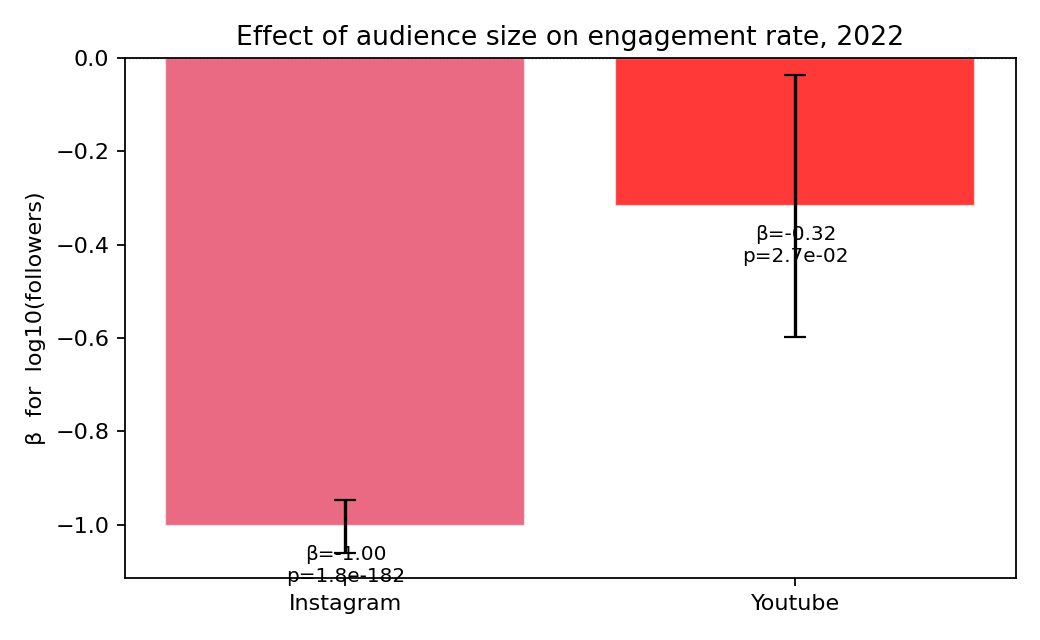
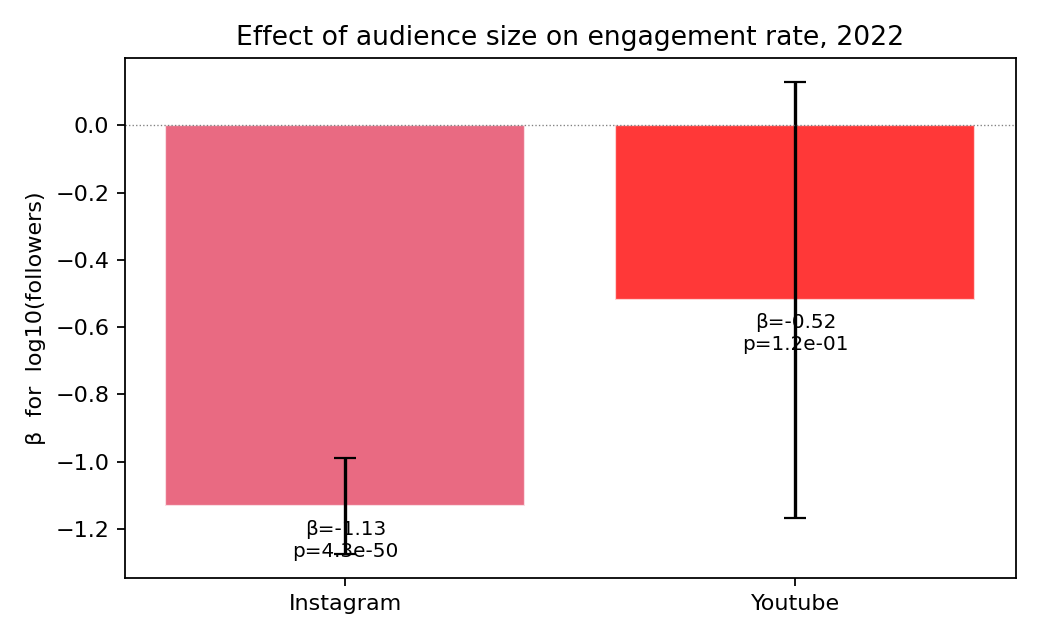
rq1 ml model

diff --git a/8 - ML prediction/scripts/8_rq1_engagement_prediction.py b/8 - ML prediction/scripts/8_rq1_engagement_prediction.py
@@ -1,0 +1,268 @@
+"""
+Step 8: RQ1 (Predictive extension)
+
+Question: Given an account's platform, content category, audience country,
+and follower count, can we predict its engagement rate? How does the
+prediction accuracy compare to a traditional OLS baseline?
+
+Target:   log10(er_pct)  — matches RQ1's outcome variable for direct comparison
+Features: log10(followers), platform, category_unified, country
+Scope:    2022 only, Instagram + YouTube (TikTok 2022 lacks category & country)
+Split:    80/20 by unique account (random_state=42)
+Models:   OLS (baseline) · Random Forest · XGBoost
+Metrics:  R² · RMSE · MAE  (all on log scale)
+"""
+
+from pathlib import Path
+import numpy as np
+import pandas as pd
+import matplotlib.pyplot as plt
+from sklearn.linear_model import LinearRegression
+from sklearn.ensemble import RandomForestRegressor
+from sklearn.model_selection import train_test_split
+from sklearn.metrics import r2_score, mean_absolute_error, mean_squared_error
+from sklearn.preprocessing import OneHotEncoder
+from sklearn.inspection import permutation_importance
+import xgboost as xgb
+
+ROOT = Path(__file__).resolve().parents[2]
+SRC  = ROOT / "4 - ER unified" / "finalData_with_er.csv"
+OUT  = ROOT / "8 - ML prediction"
+PLOT = OUT / "plots"
+TBL  = OUT / "tables"
+PLOT.mkdir(exist_ok=True, parents=True)
+TBL.mkdir(exist_ok=True, parents=True)
+
+PLATFORM_COLOR = {"instagram": "#E4405F", "youtube": "#FF0000"}
+MODEL_COLOR    = {"OLS (baseline)": "#37474F", "Random Forest": "#2E7D32", "XGBoost": "#C62828"}
+EXCLUDE_CATEGORIES = {"Other", "UNMAPPED"}
+TOP_K_COUNTRIES = 15
+RANDOM_STATE = 42
+
+summary = []
+def log(msg=""):
+    print(msg); summary.append(str(msg))
+
+# ---------- PNG table helper ------------------------------------------------
+def save_table_png(df, path, title=None, fmt=None):
+    d = df.copy()
+    if fmt is not None:
+        for col, f in fmt.items():
+            if col in d.columns:
+                d[col] = d[col].map(lambda v: f(v) if pd.notna(v) else "")
+    else:
+        for col in d.select_dtypes("number").columns:
+            d[col] = d[col].map(lambda v: f"{v:.3f}" if pd.notna(v) else "")
+    if not isinstance(d.index, pd.RangeIndex):
+        d = d.reset_index()
+    n_rows, n_cols = d.shape
+    fig_w = max(8, 1.3 * n_cols); fig_h = 0.6 + 0.38 * (n_rows + 1) + (0.4 if title else 0)
+    fig, ax = plt.subplots(figsize=(fig_w, fig_h)); ax.axis("off")
+    if title:
+        ax.set_title(title, loc="left", fontsize=11, fontweight="bold", pad=10)
+    tbl = ax.table(cellText=d.astype(str).values, colLabels=d.columns.astype(str).tolist(),
+                   loc="center", cellLoc="center", colLoc="center")
+    tbl.auto_set_font_size(False); tbl.set_fontsize(9); tbl.scale(1, 1.25)
+    for j in range(n_cols):
+        c = tbl[0, j]; c.set_facecolor("#37474F"); c.set_text_props(color="white", fontweight="bold")
+    for i in range(1, n_rows + 1):
+        for j in range(n_cols):
+            if i % 2 == 0:
+                tbl[i, j].set_facecolor("#F4F6F7")
+    fig.tight_layout(); fig.savefig(path, dpi=160, bbox_inches="tight"); plt.close(fig)
+
+# ===========================================================================
+# 1. Load and prepare
+# ===========================================================================
+df_all = pd.read_csv(SRC, low_memory=False)
+df22 = df_all[(df_all["_year"] == 2022)
+              & df_all["_platform"].isin(["instagram", "youtube"])
+              & df_all["er_pct"].notna() & (df_all["er_pct"] > 0)
+              & df_all["followers"].notna() & (df_all["followers"] > 0)
+              & df_all["category_unified"].notna()
+              & ~df_all["category_unified"].isin(EXCLUDE_CATEGORIES)
+              & df_all["country"].notna()].copy()
+log(f"Loaded {len(df_all):,} rows; {len(df22):,} valid 2022 IG+YT rows.")
+
+# Restrict to top-K countries per platform (consistent with RQ1)
+top_c = {plat: df22[df22["_platform"] == plat]["country"]
+                    .value_counts().head(TOP_K_COUNTRIES).index.tolist()
+         for plat in ["instagram", "youtube"]}
+df22 = df22[df22.apply(lambda r: r["country"] in top_c[r["_platform"]], axis=1)].copy()
+log(f"After top-{TOP_K_COUNTRIES}-country filter: {len(df22):,} rows.")
+
+# Dedup to one row per (handle, _platform)
+agg = (df22.groupby(["handle", "_platform"])
+            .agg(er_pct=("er_pct", "median"),
+                 followers=("followers", "median"),
+                 category_unified=("category_unified", "first"),
+                 country=("country", "first"))
+            .reset_index())
+agg["log_er"]        = np.log10(agg["er_pct"])
+agg["log_followers"] = np.log10(agg["followers"])
+log(f"Unique accounts: {len(agg):,}")
+log(f"  Instagram: {(agg['_platform']=='instagram').sum():,}")
+log(f"  YouTube:   {(agg['_platform']=='youtube').sum():,}")
+
+# ===========================================================================
+# 2. Train/test split (80/20 by unique account)
+# ===========================================================================
+train_df, test_df = train_test_split(agg, test_size=0.20, random_state=RANDOM_STATE,
+                                      stratify=agg["_platform"])
+log(f"\nTrain: {len(train_df):,} accounts | Test: {len(test_df):,} accounts")
+
+# One-hot encode categoricals; keep continuous as-is
+CAT_COLS  = ["_platform", "category_unified", "country"]
+CONT_COLS = ["log_followers"]
+encoder = OneHotEncoder(sparse_output=False, handle_unknown="ignore")
+X_train_cat = encoder.fit_transform(train_df[CAT_COLS])
+X_test_cat  = encoder.transform(test_df[CAT_COLS])
+X_train = np.hstack([train_df[CONT_COLS].values, X_train_cat])
+X_test  = np.hstack([test_df[CONT_COLS].values,  X_test_cat])
+y_train = train_df["log_er"].values
+y_test  = test_df["log_er"].values
+feature_names = CONT_COLS + list(encoder.get_feature_names_out(CAT_COLS))
+log(f"Feature count: {X_train.shape[1]} ({len(CONT_COLS)} continuous + "
+    f"{X_train_cat.shape[1]} one-hot encoded)")
+
+# ===========================================================================
+# 3. Fit three models and evaluate
+# ===========================================================================
+models = {
+    "OLS (baseline)":  LinearRegression(),
+    "Random Forest":   RandomForestRegressor(n_estimators=300, max_depth=None,
+                                              random_state=RANDOM_STATE, n_jobs=-1),
+    "XGBoost":         xgb.XGBRegressor(n_estimators=400, learning_rate=0.05,
+                                         max_depth=6, random_state=RANDOM_STATE,
+                                         n_jobs=-1, verbosity=0),
+}
+
+results, predictions, fitted_models = [], {}, {}
+log("\n" + "=" * 70 + "\nMODEL PERFORMANCE (held-out test set)\n" + "=" * 70)
+for name, mdl in models.items():
+    mdl.fit(X_train, y_train)
+    yhat = mdl.predict(X_test)
+    r2   = r2_score(y_test, yhat)
+    rmse = np.sqrt(mean_squared_error(y_test, yhat))
+    mae  = mean_absolute_error(y_test, yhat)
+    predictions[name] = yhat
+    fitted_models[name] = mdl
+    results.append({"model": name, "R2": r2, "RMSE": rmse, "MAE": mae})
+    log(f"  {name:<20} R²={r2:.3f}  RMSE={rmse:.3f}  MAE={mae:.3f}")
+
+save_table_png(
+    pd.DataFrame(results), TBL / "T1_model_comparison.png",
+    title=f"Table 1. Model performance on held-out test set "
+          f"(n_train={len(y_train):,}, n_test={len(y_test):,})",
+    fmt={"model": str, "R2": lambda v: f"{v:.3f}",
+         "RMSE": lambda v: f"{v:.3f}", "MAE": lambda v: f"{v:.3f}"})
+
+# ===========================================================================
+# 4. Permutation feature importance (same metric across all 3 models)
+# ===========================================================================
+log("\n" + "=" * 70 + "\nPERMUTATION FEATURE IMPORTANCE (R² drop)\n" + "=" * 70)
+# Group one-hot features back to original block (platform / category / country / followers)
+def feature_block(name):
+    if name == "log_followers": return "log_followers"
+    if name.startswith("_platform"): return "platform"
+    if name.startswith("category_unified"): return "category"
+    if name.startswith("country"): return "country"
+    return name
+
+block_indices = {}
+for j, fn in enumerate(feature_names):
+    block_indices.setdefault(feature_block(fn), []).append(j)
+
+importance_rows = []
+for model_name, mdl in fitted_models.items():
+    log(f"\n  {model_name}:")
+    for block_name, idxs in block_indices.items():
+        # Permute all columns in this block jointly
+        rng = np.random.default_rng(RANDOM_STATE)
+        importances = []
+        for _ in range(15):  # 15 repetitions
+            X_perm = X_test.copy()
+            perm = rng.permutation(X_test.shape[0])
+            X_perm[:, idxs] = X_test[perm][:, idxs]
+            r2_perm = r2_score(y_test, mdl.predict(X_perm))
+            importances.append(r2_score(y_test, mdl.predict(X_test)) - r2_perm)
+        importance_rows.append({"model": model_name, "feature_block": block_name,
+                                "importance_mean": np.mean(importances),
+                                "importance_std":  np.std(importances)})
+        log(f"    {block_name:<15} ΔR² = {np.mean(importances):.4f} (±{np.std(importances):.4f})")
+
+imp_df = pd.DataFrame(importance_rows)
+save_table_png(
+    imp_df, TBL / "T2_permutation_importance.png",
+    title="Table 2. Permutation importance — R² decrease when each feature block is shuffled",
+    fmt={"model": str, "feature_block": str,
+         "importance_mean": lambda v: f"{v:.4f}",
+         "importance_std":  lambda v: f"{v:.4f}"})
+
+# ===========================================================================
+# F1: Predicted vs actual scatter, per model
+# ===========================================================================
+fig, axes = plt.subplots(1, 3, figsize=(15, 5), sharex=True, sharey=True)
+lims = (min(y_test.min(), min(p.min() for p in predictions.values())) - 0.2,
+        max(y_test.max(), max(p.max() for p in predictions.values())) + 0.2)
+for ax, (name, yhat) in zip(axes, predictions.items()):
+    # Color points by platform
+    test_plats = test_df["_platform"].values
+    for plat, color in PLATFORM_COLOR.items():
+        m = test_plats == plat
+        ax.scatter(y_test[m], yhat[m], s=10, alpha=0.45, color=color,
+                   label=plat.capitalize() if ax is axes[0] else None)
+    ax.plot(lims, lims, color="black", lw=0.8, ls="--")
+    r2 = r2_score(y_test, yhat)
+    ax.text(0.05, 0.92, f"R² = {r2:.3f}", transform=ax.transAxes,
+            fontsize=11, bbox=dict(facecolor="white", edgecolor="gray"))
+    ax.set_xlabel("Actual log10(er_pct)")
+    ax.set_ylabel("Predicted log10(er_pct)")
+    ax.set_title(name)
+    ax.set_xlim(lims); ax.set_ylim(lims)
+axes[0].legend(loc="lower right", fontsize=9)
+fig.suptitle("Predicted vs actual engagement rate, by model", y=1.00)
+fig.tight_layout(); fig.savefig(PLOT / "F1_predicted_vs_actual.png", dpi=160); plt.close(fig)
+log(f"\nSaved {PLOT/'F1_predicted_vs_actual.png'}")
+
+# ===========================================================================
+# F2: Feature importance bar chart, per model
+# ===========================================================================
+blocks = sorted(block_indices.keys())
+fig, ax = plt.subplots(figsize=(9, 4.5))
+width = 0.25
+x_pos = np.arange(len(blocks))
+for i, (name, color) in enumerate(MODEL_COLOR.items()):
+    sub = imp_df[imp_df["model"] == name].set_index("feature_block").reindex(blocks)
+    ax.bar(x_pos + i * width, sub["importance_mean"], width,
+           yerr=sub["importance_std"], capsize=3,
+           label=name, color=color, alpha=0.85, edgecolor="white")
+ax.set_xticks(x_pos + width); ax.set_xticklabels(blocks)
+ax.set_ylabel("Permutation Δ R²  (higher = more important)")
+ax.set_title("Feature importance by block (permutation importance on test set)")
+ax.legend()
+ax.axhline(0, color="gray", lw=0.5, ls=":")
+fig.tight_layout(); fig.savefig(PLOT / "F2_feature_importance.png", dpi=160); plt.close(fig)
+log(f"Saved {PLOT/'F2_feature_importance.png'}")
+
+# ===========================================================================
+# F3: Residual distribution per model
+# ===========================================================================
+fig, axes = plt.subplots(1, 3, figsize=(15, 4), sharex=True, sharey=True)
+for ax, (name, yhat) in zip(axes, predictions.items()):
+    resid = y_test - yhat
+    ax.hist(resid, bins=40, color=MODEL_COLOR[name], alpha=0.8)
+    ax.axvline(0, color="black", lw=0.8, ls="--")
+    ax.set_xlabel("Residual (actual − predicted)  in log10 units")
+    ax.set_title(f"{name}\nmean={resid.mean():+.3f}, std={resid.std():.3f}")
+fig.suptitle("Residual distribution on held-out test set", y=1.02)
+fig.tight_layout(); fig.savefig(PLOT / "F3_residuals.png", dpi=160); plt.close(fig)
+log(f"Saved {PLOT/'F3_residuals.png'}")
+
+# ===========================================================================
+# Save summary
+# ===========================================================================
+(OUT / "summary.txt").write_text("\n".join(summary))
+print(f"\nSaved summary to {OUT/'summary.txt'}")
+print(f"Saved {len(list(TBL.glob('*.png')))} tables to {TBL}")
+print(f"Saved {len(list(PLOT.glob('*.png')))} plots to {PLOT}")

diff --git a/7 - statistical analysis/scripts/7_rq1_engagement_drivers.py b/7 - statistical analysis/scripts/7_rq1_engagement_drivers.py
@@ -146,31 +146,79 @@ save_table_png(pd.DataFrame(anova_rows), TBL / "T2_anova.png",
 # ==========================================================================
 # 3. Per-platform OLS: full controlled model for IG and YT
 # ==========================================================================
-log("\n" + "=" * 70 + "\n3. PER-PLATFORM MULTIPLE OLS (controlled)\n" + "=" * 70)
+log("\n" + "=" * 70 + "\n3. PER-PLATFORM MULTIPLE OLS (controlled, with interactions)\n" + "=" * 70)
+log("    Model: log_er ~ log_followers + category + country")
+log("           + log_followers : category   (does dilution slope vary by category?)")
+log("           + log_followers : country    (does dilution slope vary by country?)")
 ols_fits = {}
+joint_test_rows = []
+from statsmodels.stats.anova import anova_lm
 for plat in PLATFORMS_FULL:
     s = slice_data(plat, require_cat=True, require_country=True)
-    formula = (f'log_er ~ log_followers '
-               f'+ C(category_unified, Treatment(reference="{BASE_CATEGORY}")) '
-               f'+ C(country, Treatment(reference="{BASE_COUNTRY}"))')
-    fit = smf.ols(formula, data=s).fit()
+    cat_term     = f'C(category_unified, Treatment(reference="{BASE_CATEGORY}"))'
+    country_term = f'C(country, Treatment(reference="{BASE_COUNTRY}"))'
+    formula_full = (f'log_er ~ log_followers + {cat_term} + {country_term} '
+                    f'+ log_followers:{cat_term} + log_followers:{country_term}')
+    formula_no_cat_int     = (f'log_er ~ log_followers + {cat_term} + {country_term} '
+                              f'+ log_followers:{country_term}')
+    formula_no_country_int = (f'log_er ~ log_followers + {cat_term} + {country_term} '
+                              f'+ log_followers:{cat_term}')
+    formula_no_int         = (f'log_er ~ log_followers + {cat_term} + {country_term}')
+    fit          = smf.ols(formula_full,         data=s).fit()
+    fit_no_cat   = smf.ols(formula_no_cat_int,   data=s).fit()
+    fit_no_ctry  = smf.ols(formula_no_country_int, data=s).fit()
+    fit_no_int   = smf.ols(formula_no_int,       data=s).fit()
     ols_fits[plat] = (s, fit)
-    log(f"\n  {plat.capitalize()}: n={len(s):,}, R²={fit.rsquared:.3f}, "
-        f"adj.R²={fit.rsquared_adj:.3f}")
+
+    # Joint F-tests for each interaction block
+    f_cat = anova_lm(fit_no_cat, fit)   # adding cat-interaction
+    f_ctr = anova_lm(fit_no_ctry, fit)  # adding country-interaction
+    log(f"\n  {plat.capitalize()}: n={len(s):,}")
+    log(f"    Baseline (no interactions): adj.R² = {fit_no_int.rsquared_adj:.3f}")
+    log(f"    Full (with interactions):   adj.R² = {fit.rsquared_adj:.3f}")
+    log(f"    F-test for log_followers × category:  "
+        f"F={f_cat['F'].iloc[-1]:.2f}, p={f_cat['Pr(>F)'].iloc[-1]:.4g}")
+    log(f"    F-test for log_followers × country:   "
+        f"F={f_ctr['F'].iloc[-1]:.2f}, p={f_ctr['Pr(>F)'].iloc[-1]:.4g}")
+    joint_test_rows.append({
+        "platform": plat.capitalize(), "n": len(s),
+        "adj_R2_no_int": fit_no_int.rsquared_adj,
+        "adj_R2_full":   fit.rsquared_adj,
+        "F_cat_x_followers":  f_cat["F"].iloc[-1],
+        "p_cat_x_followers":  f_cat["Pr(>F)"].iloc[-1],
+        "F_ctry_x_followers": f_ctr["F"].iloc[-1],
+        "p_ctry_x_followers": f_ctr["Pr(>F)"].iloc[-1],
+    })
+
+    # Per-coefficient table
     pretty = pd.DataFrame({"coef": fit.params, "std_err": fit.bse,
                            "p": fit.pvalues,
                            "ci_lo": fit.conf_int()[0],
                            "ci_hi": fit.conf_int()[1]})
-    pretty.index = [t.replace('C(category_unified, Treatment(reference="Entertainment"))', "category")
-                     .replace('C(country, Treatment(reference="United States"))', "country")
-                     .replace("[T.", "[").rstrip("]") + "]"
-                    if "[T." in t else t for t in pretty.index]
+    pretty.index = [
+        t.replace('log_followers:C(category_unified, Treatment(reference="Entertainment"))', "log_F × cat")
+         .replace('log_followers:C(country, Treatment(reference="United States"))', "log_F × country")
+         .replace('C(category_unified, Treatment(reference="Entertainment"))', "category")
+         .replace('C(country, Treatment(reference="United States"))', "country")
+         .replace("[T.", "[").rstrip("]") + "]"
+        if "[T." in t else t for t in pretty.index]
     save_table_png(pretty, TBL / f"T3_ols_{plat}.png",
         title=f"Table 3. OLS — {plat.capitalize()} 2022 "
               f"(n={len(s):,}, R²={fit.rsquared:.3f}, adj.R²={fit.rsquared_adj:.3f})",
         fmt={"coef": lambda v: f"{v:+.3f}", "std_err": lambda v: f"{v:.3f}",
              "p": lambda v: f"{v:.3g}",
              "ci_lo": lambda v: f"{v:+.3f}", "ci_hi": lambda v: f"{v:+.3f}"})
+
+# Joint F-test summary table
+save_table_png(pd.DataFrame(joint_test_rows), TBL / "T3b_interaction_F_tests.png",
+    title="Table 3b. Joint F-tests for adding interaction blocks",
+    fmt={"platform": str, "n": lambda v: f"{int(v):,}",
+         "adj_R2_no_int": lambda v: f"{v:.3f}",
+         "adj_R2_full":   lambda v: f"{v:.3f}",
+         "F_cat_x_followers":  lambda v: f"{v:.2f}",
+         "p_cat_x_followers":  lambda v: f"{v:.4g}",
+         "F_ctry_x_followers": lambda v: f"{v:.2f}",
+         "p_ctry_x_followers": lambda v: f"{v:.4g}"})
 
 # ==========================================================================
 # 4. Pooled OLS with platform × log_followers interaction
